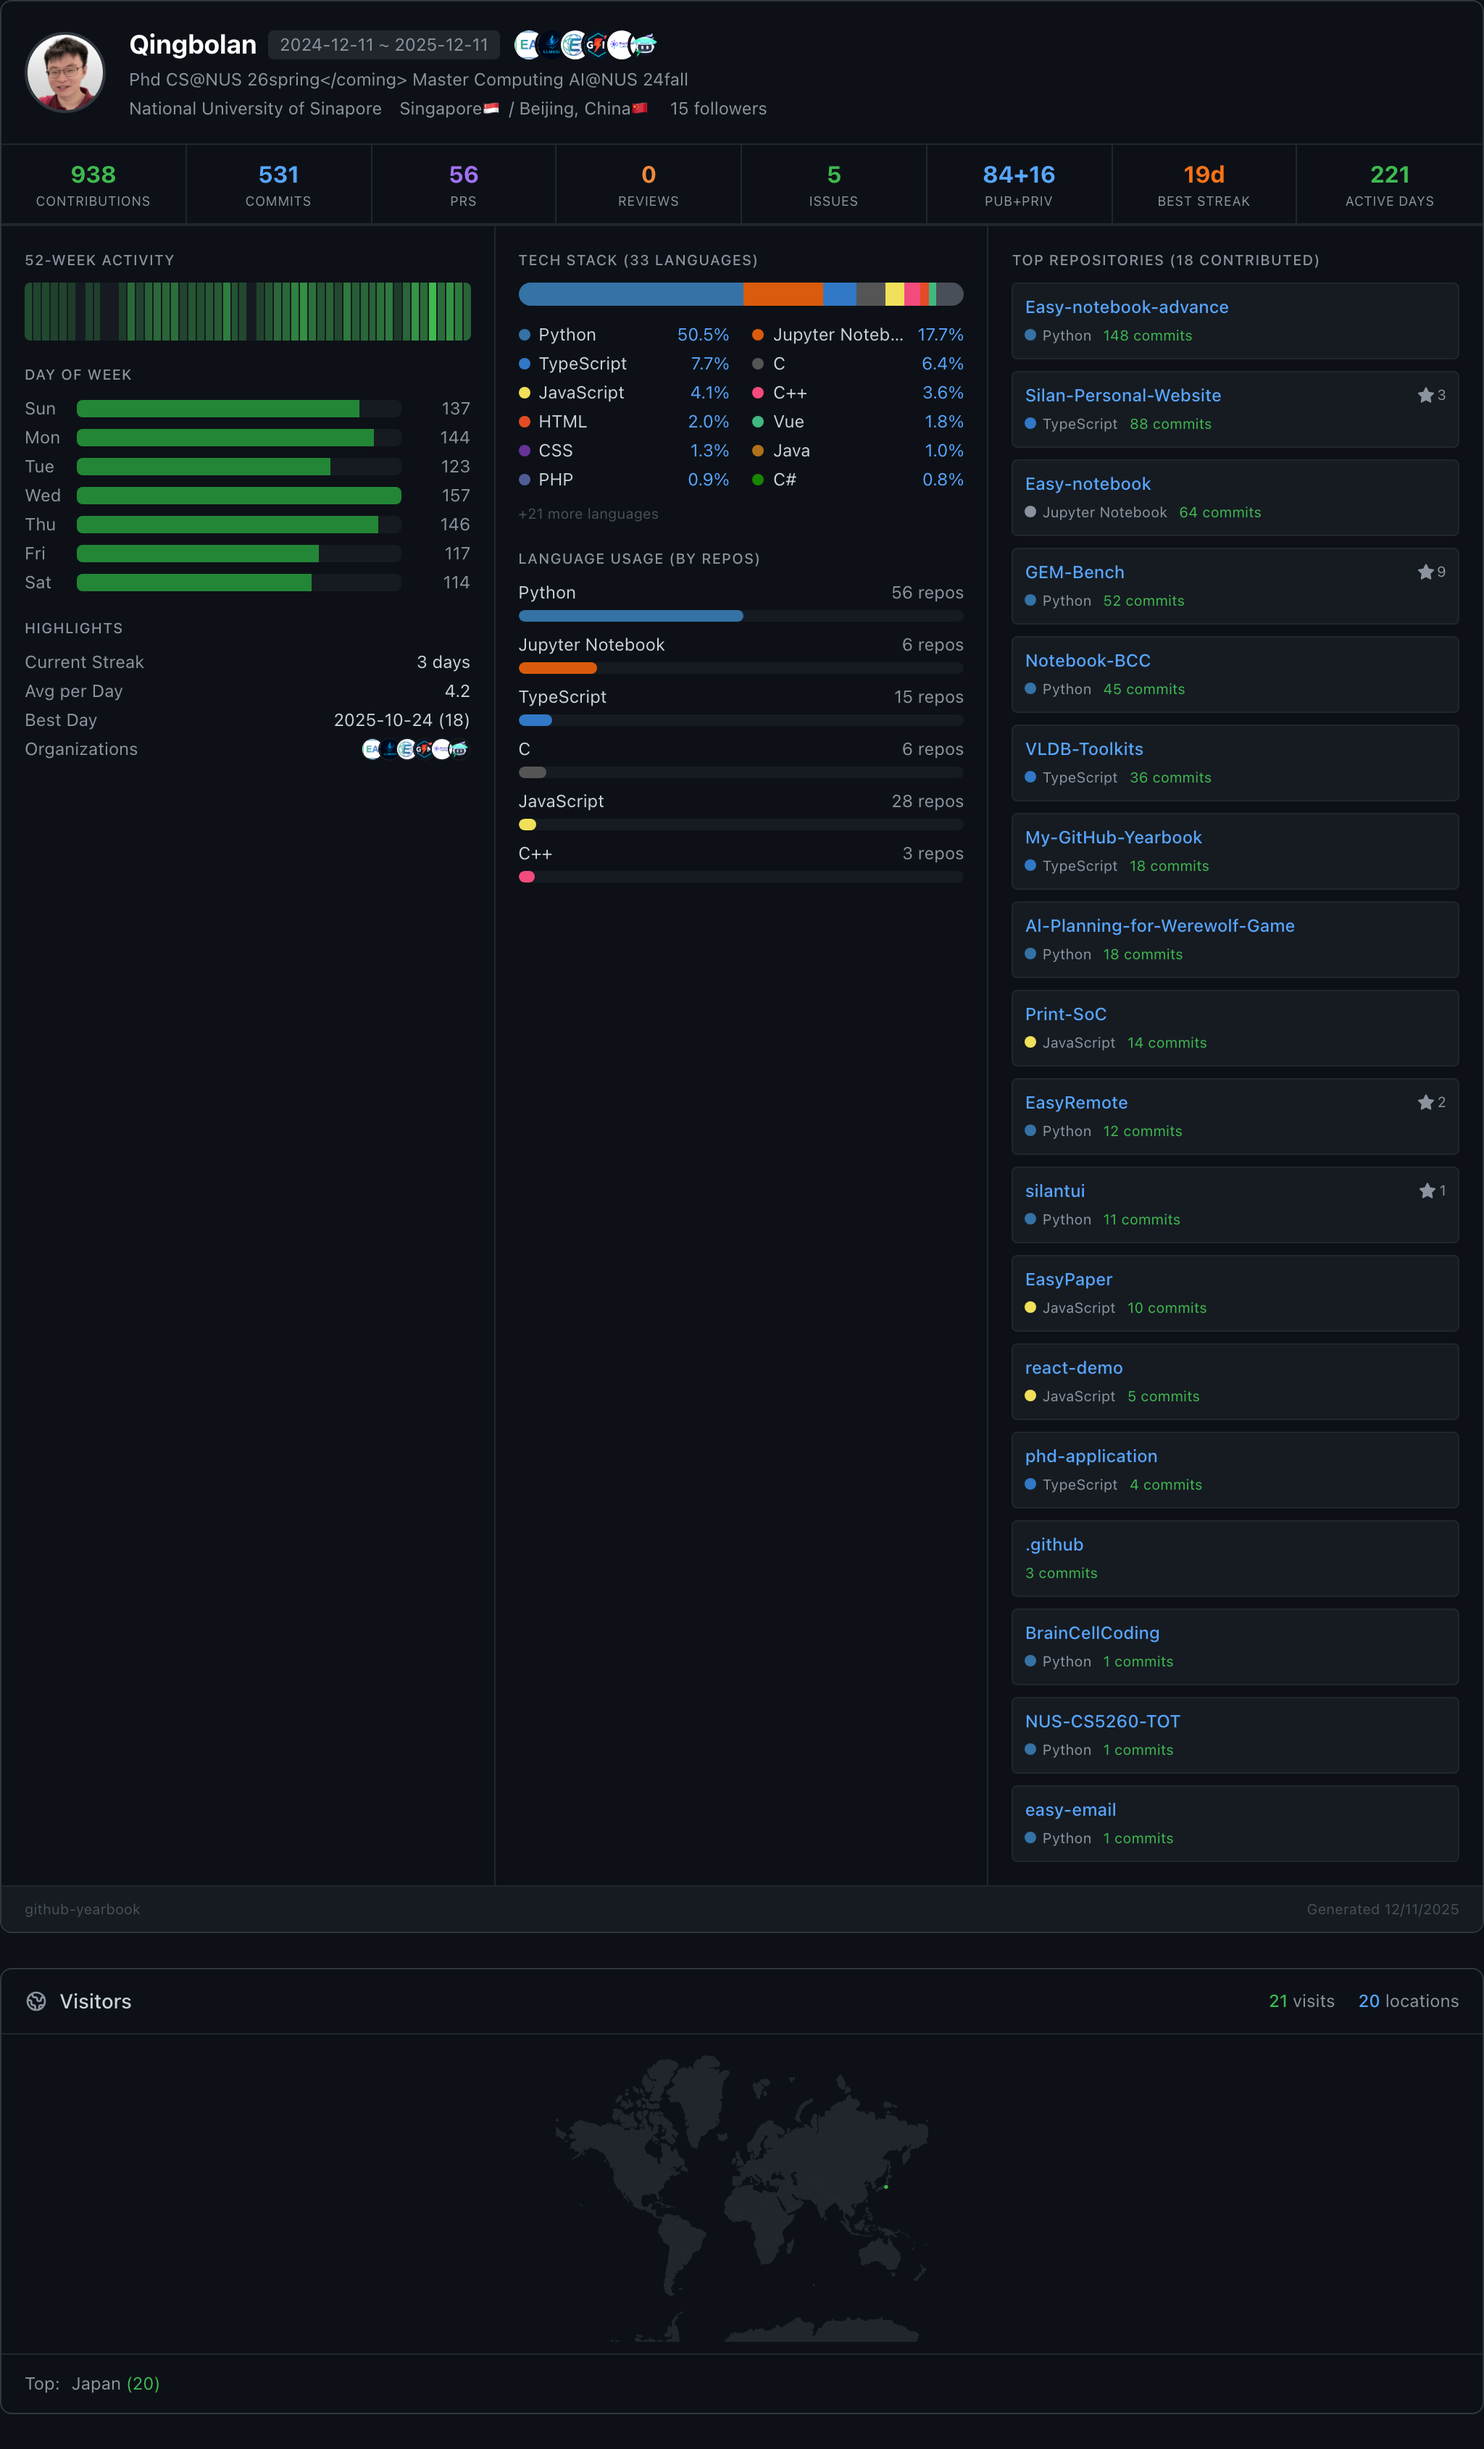
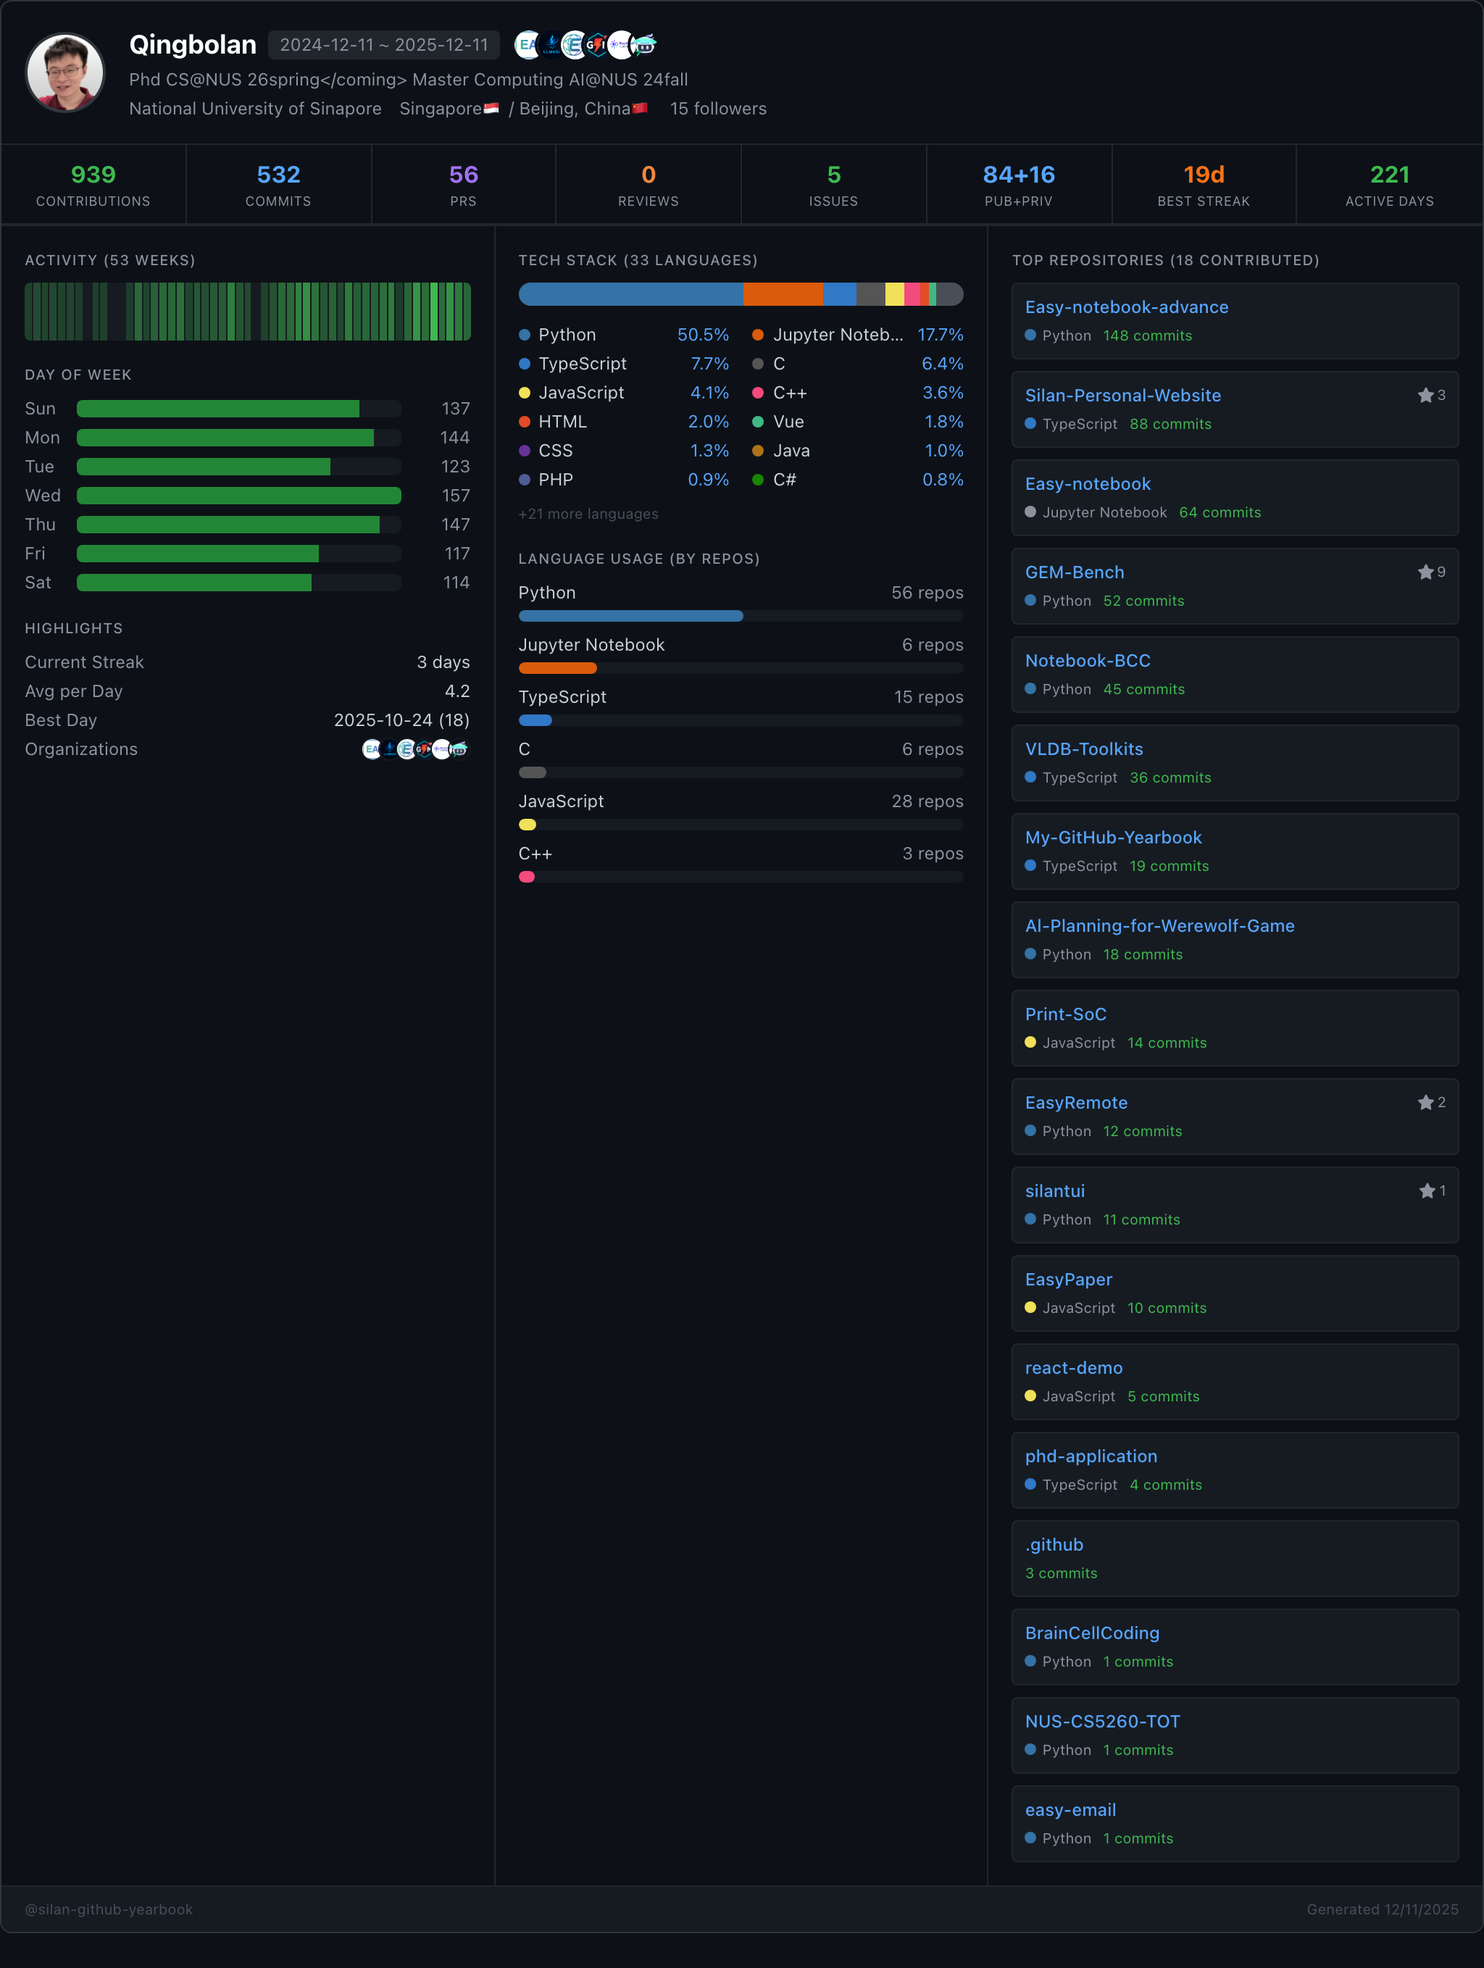
Rename project to @silan-github-yearbook
Updated all references from 'github-yearbook' to '@silan-github-yearbook' across backend, frontend, config, and cache files. Adjusted weekly activity calculation in YearbookPage to support custom week ranges and updated related UI labels.

diff --git a/web/src/pages/YearbookPage.tsx b/web/src/pages/YearbookPage.tsx
@@ -69,39 +69,27 @@ export default function YearbookPage() {
     const timeline = data.dailyContributions || []
     const total = data.totalContributions || data.totalCommits
 
-    // Weekly activity (52 weeks relative to end date)
+    // Weekly activity
     const weekMap = new Map<number, number>()
-
-    // Determine the reference end date
-    // If end param is provided use it, otherwise use Dec 31 of the year
-    const endDateRef = end
-      ? new Date(end)
-      : new Date(`${year}-12-31`)
-
-    // Ensure we are comparing dates correctly (reset time to 00:00:00 for clean day diffs if needed, 
-    // but relying on timestamps/days calculation is safer for general bucketing)
     const oneWeekMs = 604800000
+    const startDateRef = resolvedStart ? new Date(resolvedStart) : new Date(`${year}-01-01`)
+    const endDateRef = resolvedEnd ? new Date(resolvedEnd) : new Date(`${year}-12-31`)
+    const isCustom = !!(resolvedStart && resolvedEnd && !(resolvedStart.endsWith('-01-01') && resolvedEnd.endsWith('-12-31')))
+    const totalDays = Math.max(1, Math.floor((endDateRef.getTime() - startDateRef.getTime()) / 86400000) + 1)
+    const weeksCount = isCustom ? Math.max(1, Math.ceil(totalDays / 7)) : 52
 
     timeline.forEach(d => {
       const date = new Date(d.date)
-      // Calculate how many weeks back from the reference date
       const diffTime = endDateRef.getTime() - date.getTime()
-      // Weeks ago: 0 means this week, 1 means last week, etc.
-      // We want to map this to an index 0..51 where 51 is the last week (closest to end date)
       const weeksAgo = Math.floor(diffTime / oneWeekMs)
-
-      const weekIndex = 51 - weeksAgo
-
-      if (weekIndex >= 0 && weekIndex < 52) {
+      const weekIndex = (weeksCount - 1) - weeksAgo
+      if (weekIndex >= 0 && weekIndex < weeksCount) {
         weekMap.set(weekIndex, (weekMap.get(weekIndex) || 0) + d.count)
       }
     })
 
-    // Create array of 52 weeks
-    const weeks = Array(52).fill(0)
-    weekMap.forEach((count, idx) => {
-      weeks[idx] = count
-    })
+    const weeks = Array(weeksCount).fill(0)
+    weekMap.forEach((count, idx) => { weeks[idx] = count })
     const maxW = Math.max(...weeks, 1)
 
     // Day of week distribution
@@ -136,6 +124,7 @@ export default function YearbookPage() {
       activeDays: data.activeDays,
       weeks,
       maxW,
+      weeksCount,
       dayOfWeek,
       maxDay,
       maxDayEntry,
@@ -283,14 +272,14 @@ export default function YearbookPage() {
             <div className="grid lg:grid-cols-3 divide-y lg:divide-y-0 lg:divide-x divide-[#21262d]">
               {/* Left: Activity Graph + Day distribution */}
               <div className="p-4 space-y-4">
-                <Section title="52-Week Activity">
+                <Section title={isCustomRange ? `Activity (${stats.weeksCount} weeks)` : '52-Week Activity'}>
                   <div className="flex gap-px h-10 rounded overflow-hidden bg-[#161b22]">
                     {stats.weeks.map((w, i) => (
                       <div
                         key={i}
                         className="flex-1"
                         style={{ backgroundColor: w ? `rgba(63,185,80,${0.2 + (w / stats.maxW) * 0.8})` : 'transparent' }}
-                        title={`Week ${i + 1}: ${w}`}
+                        title={`Week ${i + 1} : ${w}`}
                       />
                     ))}
                   </div>
@@ -425,7 +414,7 @@ export default function YearbookPage() {
 
             {/* Footer */}
             <div className="px-4 py-2 bg-[#161b22] border-t border-[#21262d] flex justify-between text-[10px] text-[#484f58]">
-              <span>github-yearbook</span>
+              <span>@silan-github-yearbook</span>
               <span>Generated {new Date().toLocaleDateString()}</span>
             </div>
           </div>

diff --git a/web/public/404.html b/web/public/404.html
@@ -12,7 +12,7 @@
       var hash = window.location.hash;
 
       // Get the base path (repo name) from the URL
-      // e.g., /Silan-GitHub-Yearbook/yearbook/user/... -> basePath = /Silan-GitHub-Yearbook/
+      // e.g., /Silan-@silan-github-yearbook/yearbook/user/... -> basePath = /Silan-@silan-github-yearbook/
       var segments = path.split('/').filter(Boolean);
       var basePath = '/' + (segments[0] || '') + '/';
 

diff --git a/backend/app/api/routes.py b/backend/app/api/routes.py
@@ -502,7 +502,7 @@ def generate_stats_svg(stats: YearbookStats) -> str:
 
   <!-- Footer -->
   <g transform="translate(20, {305 + bio_height})">
-    <text fill="#484f58" font-size="10">github-yearbook · {datetime.utcnow().strftime("%Y-%m-%d")}</text>
+    <text fill="#484f58" font-size="10">@silan-github-yearbook · {datetime.utcnow().strftime("%Y-%m-%d")}</text>
   </g>
 </svg>'''
 
